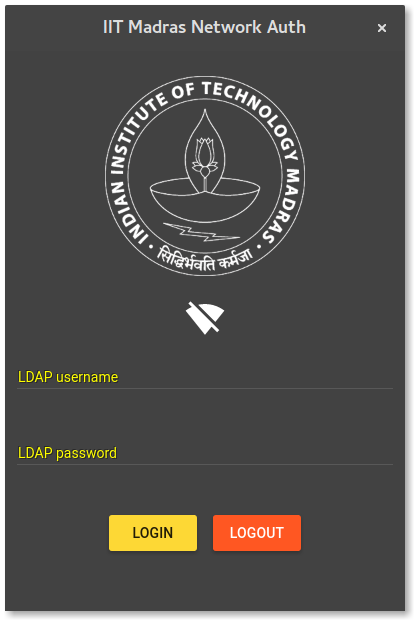
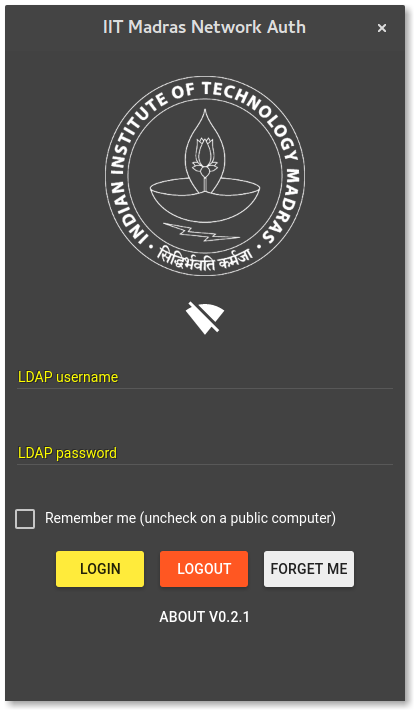
Add analytics

diff --git a/app/index.html b/app/index.html
@@ -11,6 +11,9 @@
 	<script type="text/javascript" src="./node_modules/angular-aria/angular-aria.js"></script>
 	<script type="text/javascript" src="./node_modules/angular-animate/angular-animate.js"></script>
 	<script type="text/javascript" src="./node_modules/angular-material/angular-material.js"></script>
+	<script type="text/javascript" src="./node_modules/angulartics-google-analytics/dist/angulartics-ga.min.js"></script>
+	<script type="text/javascript" src="./node_modules/angulartics/dist/angulartics.min.js"></script>
+	<script type="text/javascript" src="./node_modules/angulartics-google-analytics/dist/angulartics-ga.min.js"></script>
 
 	<script type="text/javascript" src="scripts/index.js"></script>
 	<script type="text/javascript" src="scripts/vendor/external_links.js"></script>
@@ -27,7 +30,7 @@
             <md-progress-linear md-theme="docs-dark" md-mode="{{auth.loading ? 'indeterminate' : null}}"></md-progress-linear>
 			<div layout="row" layout-align="center center">
 				<div>
-                    <img ng-src="res/iitm.png" class="logo" flex >
+                    <img ng-src="res/iitm.png" class="logo" flex draggable=false>
 				</div>
 			</div>
 
@@ -58,19 +61,44 @@
                 </div>
 
                 <section layout="row" layout-sm="column" layout-align="center center" layout-wrap>
-                    <md-button class="md-primary md-raised" type="submit" aria-label="Add task">Login</md-button>
-                    <md-button ng-click="auth.logout()" class="md-raised md-warn">Logout</md-button>
-                    <md-button ng-click="auth.forget()" class="md-raised ">Forget me</md-button>
+                    <md-button class="md-primary md-raised" type="submit" aria-label="Login">Login</md-button>
+                    <md-button ng-click="auth.logout()" class="md-raised md-warn" >Logout</md-button>
+                    <md-button ng-click="auth.forget()" class="md-raised" >Forget me</md-button>
                 </section>
 
                 <section layout="row" layout-sm="column" layout-align="center center" layout-wrap>
-                    <md-button ng-href="https://shahidhk.github.io/iitm-network-auth-app" class="js-external-link">About</md-button>
-                    <md-button>Test Update</md-button>
+                    <md-button ng-href="https://shahidhk.github.io/iitm-network-auth-app" class="js-external-link">About v{{auth.appDetails.version}}</md-button>
+                    <md-button ng-href="{{auth.updateData.url}}" class="js-external-link md-primary" ng-show="auth.updateAvailable">Update to v{{auth.updateData.name}}</md-button>
                 </section>
 			</form>
 
 		</md-content>
 	</div>
+    <script>
+        var _id = 'UA-49243395-5';
+        (function(i,s,o,g,r,a,m){i['GoogleAnalyticsObject']=r;i[r]=i[r]||function(){
+            (i[r].q=i[r].q||[]).push(arguments)},i[r].l=1*new Date();a=s.createElement(o),
+        m=s.getElementsByTagName(o)[0];a.async=1;a.src='https://www.google-analytics.com/analytics.js';m.parentNode.insertBefore(a,m)
+        })(window,document,'script','//www.google-analytics.com/analytics.js','ga');
 
+        var GA_LOCAL_STORAGE_KEY = 'ga:clientId';
+
+        ga('create', _id, 'auto', {
+            'storage': 'none',
+            'clientId': localStorage.getItem(GA_LOCAL_STORAGE_KEY)
+        });
+
+        ga(function(tracker) {
+            localStorage.setItem(GA_LOCAL_STORAGE_KEY, tracker.get('clientId'));
+            // override parameters to remove reference to user-specific data
+            tracker.set('&dl', 'http://iitm-network-auth-app');
+            tracker.set('&dp', '/app');
+            tracker.set('dp', '/app');
+            tracker.set('page', '/app');
+        });
+
+        ga('set', 'checkProtocolTask', null);
+
+    </script>
 </body>
 </html>

diff --git a/app/scripts/app/authController.js b/app/scripts/app/authController.js
@@ -1,11 +1,10 @@
 (function(){
 
     angular
-        .module('app', ['ngMaterial', 'ngAnimate'])
-        .controller('AuthController', ['$scope', '$window', '$mdToast', 'logger', 'ipcRenderer',  AuthController]);
+        .module('app', ['ngMaterial', 'ngAnimate', 'angulartics', 'angulartics.google.analytics'])
+        .controller('AuthController', ['$scope', '$window', '$mdToast', 'logger', 'ipcRenderer', '$analytics', '$http',  AuthController]);
 
-    function AuthController($scope, $window, $mdToast, logger, ipcRenderer) {
-
+    function AuthController($scope, $window, $mdToast, logger, ipcRenderer, $analytics, $http) {
         // List of bindable properties and methods
         var ctrl = this;
         // Get username and password from localstorage
@@ -21,19 +20,35 @@
         ctrl.forget = forget;
         ctrl.shouldConnect = true;
         ctrl.updateRemember = updateRemember;
+        ctrl.pageOpened = false;
+        ctrl.updateData = {};
+        ctrl.updateAvailable = false;
+        ctrl.appDetails = {};
 
         ipcRenderer.on('log-in-done', function (e, arg) {
+            if (!ctrl.pageOpened) {
+                $analytics.pageTrack('/app');
+                ctrl.pageOpened = true;
+            }
+            $analytics.eventTrack('login', {page: '/app'});
             ctrl.loading = false;
             ctrl.connected = true;
             showToast('Logged in with id: ' + arg.data.message);
+            ipcRenderer.send('get-app-details');
             $scope.$apply();
         });
         ipcRenderer.on('error-happened', function (e, a) {
+            $analytics.eventTrack('error', {page: '/app', error: a});
             ctrl.loading = false;
-            showToast('ERROR: ' + a.data.error);
+            var reason = a.data.error.name || a.data.error;
+            if (reason == "RequestError") {
+                reason = "Not connected";
+            }
+            showToast('ERROR: ' + reason);
             $scope.$apply();
         });
         ipcRenderer.on('log-out-done', function (event, arg) {
+            $analytics.eventTrack('logout', {page: '/app'});
             ctrl.loading = false;
             ctrl.connected = false;
             showToast('Logged out');
@@ -43,6 +58,7 @@
             }
         });
         ipcRenderer.on('session-refreshed', function (e) {
+            $analytics.eventTrack('refresh', {page: '/app'});
             showToast('Session refreshed');
         });
         ipcRenderer.on('update-message', function(event, method) {
@@ -66,6 +82,7 @@
         }
 
         function forget() {
+            $analytics.eventTrack('forget', {page: '/app'});
             logout();
             ctrl.username = '';
             ctrl.password = '';
@@ -89,12 +106,29 @@
             ); 
         }
 
+
         // Logout and start a new session when app opens
         if (ctrl.credentials) { 
             ipcRenderer.send('do-log-out');
         } else {
             showToast("Enter credentials");
         }
+
+        ipcRenderer.on('app-details', function(event, args){
+            ctrl.appDetails = args; 
+            $http.get('https://server.waviness63.hasura-app.io/update/'+ args.platform + '/' + args.version).then(
+                function(resp) {
+                    if (resp.data) {
+                        ctrl.updateAvailable = true;
+                        ctrl.updateData = resp.data;
+                        showToast('Update available');
+                    }
+                },
+                function(error) {
+                    showToast('ERROR: Unable to reach update server');
+                }
+            );
+        });
     }
 
 })();

diff --git a/app/main.js b/app/main.js
@@ -22,7 +22,7 @@ var feedURL = "";
 // Don't use auto-updater if we are in development 
 if (!isDevelopment) {
     if (os.platform() === 'darwin') {
-        updateFeed = 'https://server.waviness63.hasura-app.io/update/darwin/' + app.getVersion();;
+        updateFeed = 'https://server.waviness63.hasura-app.io/update/darwin/' + app.getVersion();
     }
     else if (os.platform() === 'win32') {
         updateFeed = 'https://server.waviness63.hasura-app.io/update/win32/' +app.getVersion();
@@ -76,7 +76,7 @@ app.on('ready', function() {
     // Other options available at:
     // http://electron.atom.io/docs/latest/api/browser-window/#new-browserwindow-options
     var w = 400;
-    var h = 600; 
+    var h = 650; 
     mainWindow = new BrowserWindow({
         name: "iitm-network-auth",
         width: w,
@@ -93,8 +93,9 @@ app.on('ready', function() {
     // Target HTML file which will be opened in window
     mainWindow.loadURL('file://' + __dirname + "/index.html");
 
-    // Uncomment to use Chrome developer tools
-    //mainWindow.webContents.openDevTools({detach:true});
+    if (isDevelopment) {
+        mainWindow.webContents.openDevTools({detach:true});
+    }
 
     // Cleanup when window is closed
     mainWindow.on('closed', function() {
@@ -149,3 +150,9 @@ ipcMain.on('do-log-in', function (event, username, password) {
     auth.login()
 });
 
+ipcMain.on('get-app-details', function() {
+    var details = {};
+    details.version = app.getVersion();
+    details.platform = os.platform();
+    mainWindow.webContents.send('app-details', details);
+});

diff --git a/app/scripts/app/config.js b/app/scripts/app/config.js
@@ -2,7 +2,12 @@
 
 	angular
 		.module('app')
-		.config(['$mdThemingProvider', configure]);
+		.config(['$mdThemingProvider', configure])
+        .config(['$analyticsProvider', analyticsConfigure]);
+
+    function analyticsConfigure($analyticsProvider) {
+        $analyticsProvider.virtualPageviews(false);
+    }
 
 	function configure($mdThemingProvider) {
 	    // Configure a dark theme with primary foreground yellow

diff --git a/README.md b/README.md
@@ -4,7 +4,7 @@ Cross platform desktop application for authenticating Windows/Linux/Mac devices 
 
 #### Note: app works only inside IIT Madras campus network.
 
-![image](preview.png)
+![image](https://github.com/shahidhk/iitm-network-auth-app/raw/master/preview.png)
 
 ## Installation
 
@@ -19,7 +19,8 @@ Download the latest release for your platform from [GitHub Releases page](https:
 - Keep the application open to maintain the login session.
 - Use the logout button to terminate the session.
 - Note: each login session is valid for 10 minutes. The application refresh the session every 9 minutes. Hence, even if you close the application, the session maybe valid for at-most 10 minutes, unless you logout.
-- The app will automatically download and install updates.
+- The app will automatically download and install updates on Windows and Mac.
+- New updates will be shown at the bottom, click that to download.
 
 ## Privacy and Security
 
